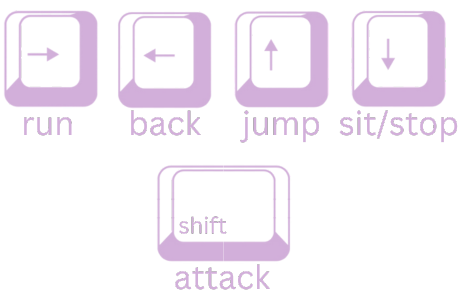
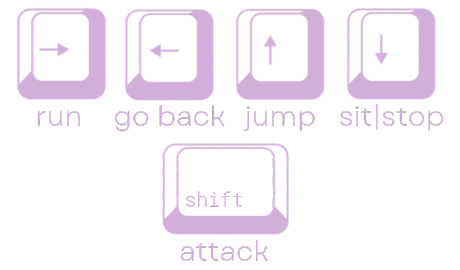
updated keys image

diff --git a/style.css b/style.css
@@ -109,9 +109,9 @@ h3 {
 #keys {
   position: absolute;
   z-index: 1200;
-  top: 125vh;
-  left: 3vw;
-  width: 22rem;
+  top: 126vh;
+  left: 2vw;
+  width: 28rem;
 
  display: block;
 }
@@ -133,6 +133,7 @@ svg {
 }
 
 #gooey-button {
+  
 transition: all 0.1s ease-in-out;
   z-index: 1300;
   padding: 1.2rem;
@@ -142,10 +143,11 @@ transition: all 0.1s ease-in-out;
 
   filter: url('#gooey');
   position: relative;
-  top: 154vh;
+  top: 160vh;
   left: 3vw;
   background-color: #6E1984;
   color: #d2afda;
+  font-family:system-ui, -apple-system, BlinkMacSystemFont, 'Segoe UI', Roboto, Oxygen, Ubuntu, Cantarell, 'Open Sans', 'Helvetica Neue', sans-serif;
 }
 #gooey-button:focus {
   outline: none;
